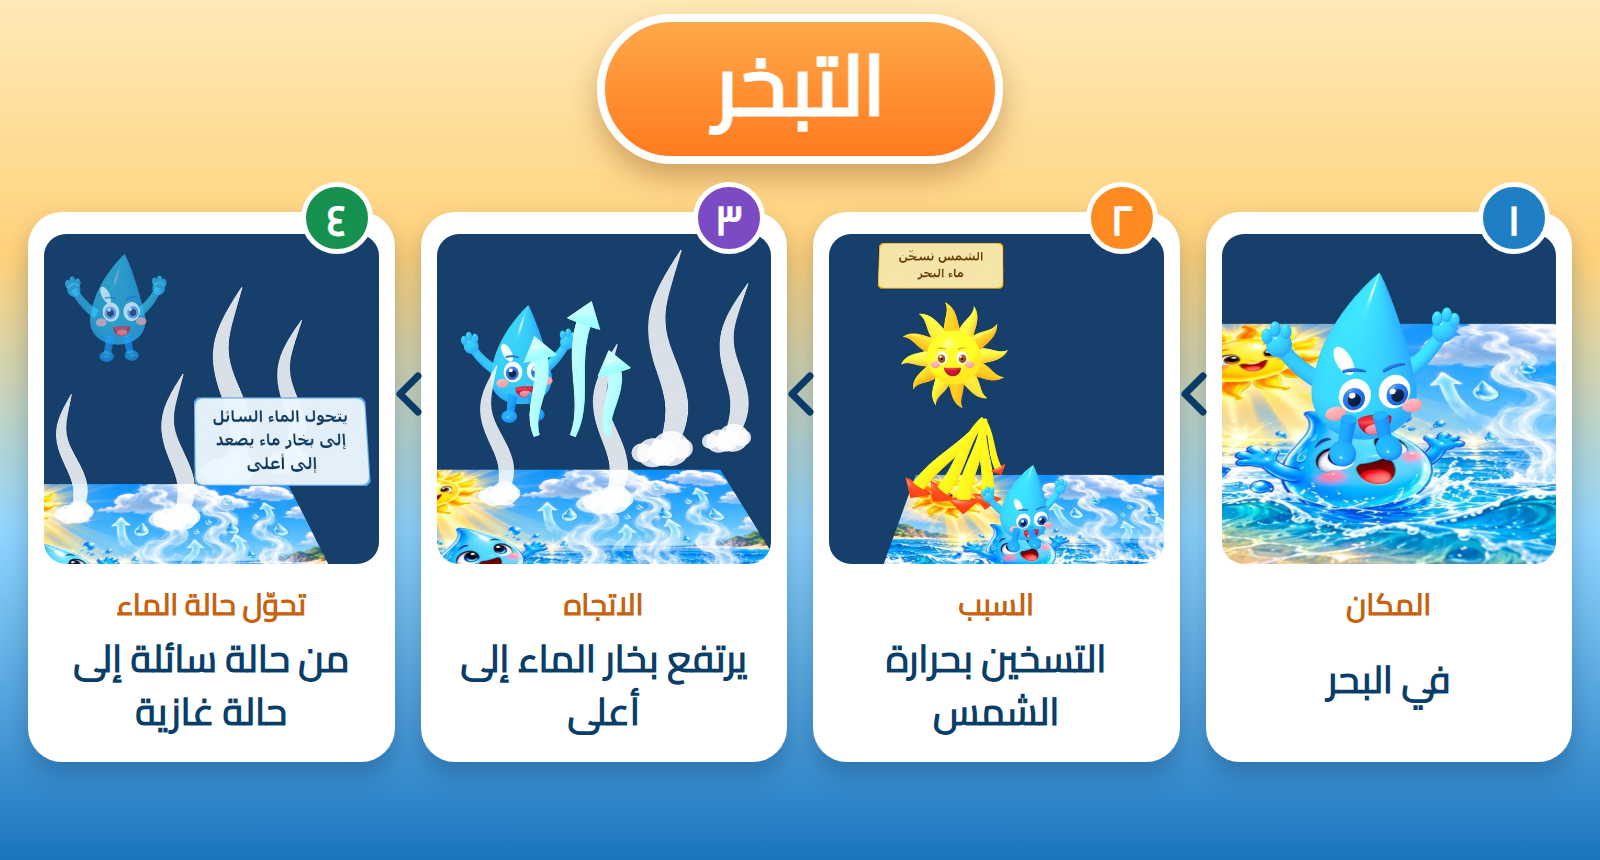
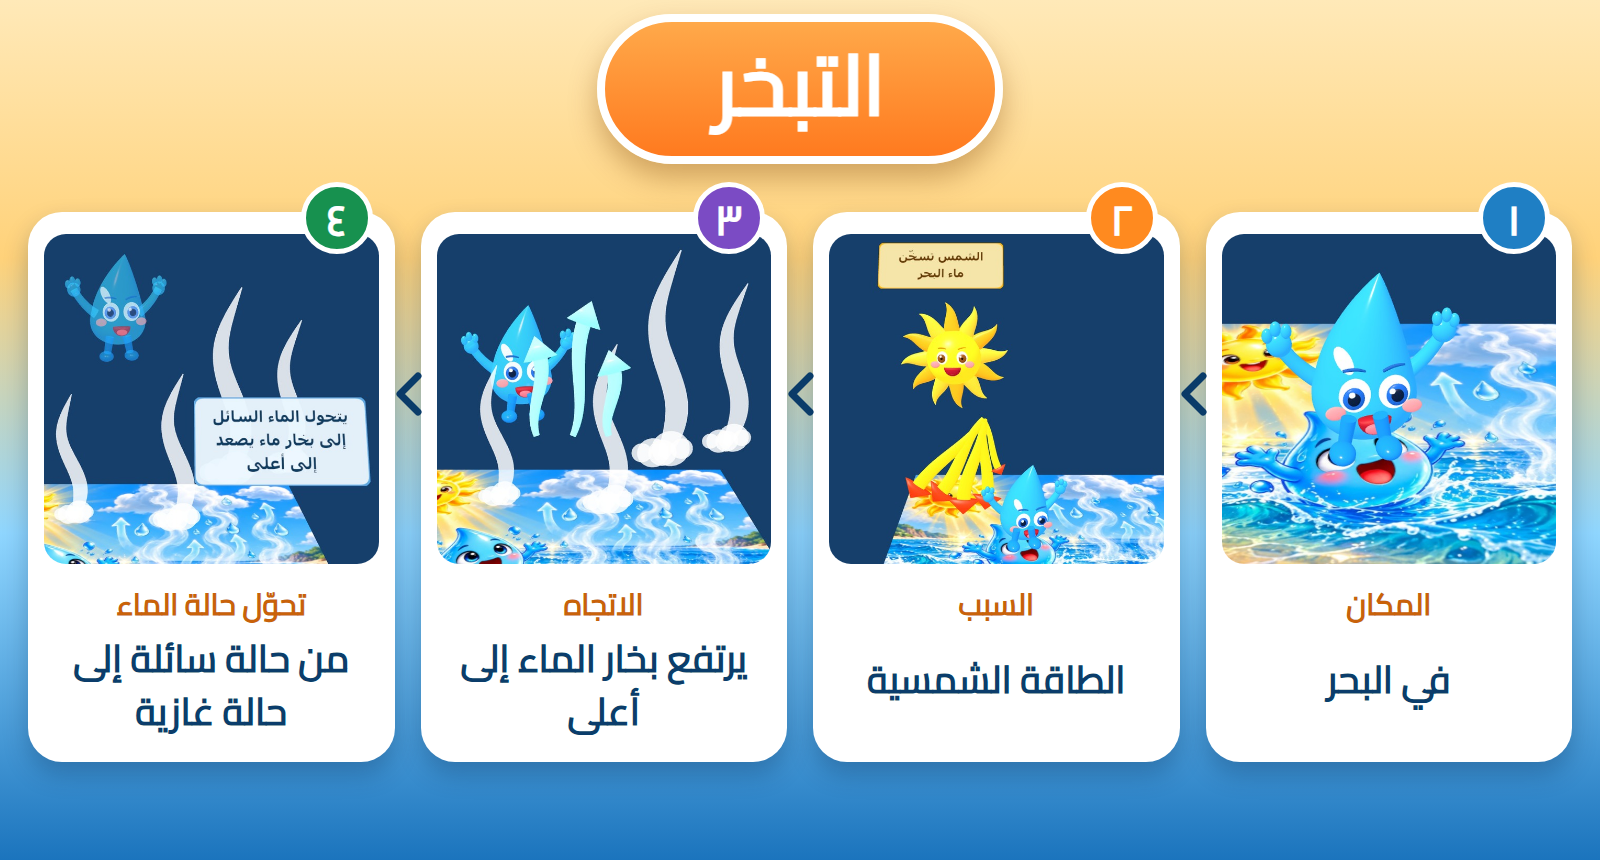
Use the textbook wording for the causes of evaporation and condensation
Evaporation: «الطاقة الشمسية». Condensation: «يبرد بخار الماء في السماء».
Replaces «التسخين بحرارة الشمس» and «التبريد ببرودة الجو», which repeated
the same idea.

Changed region(s): [[0.5312, 0.7558, 0.7188, 0.8465]]

diff --git a/evaporation-card/index.html b/evaporation-card/index.html
@@ -10,6 +10,6 @@
 </style>
 </head>
 <body>
-  <img src="evaporation.png?v=2" alt="بطاقة التبخر: في البحر، التسخين بحرارة الشمس، يرتفع بخار الماء إلى أعلى، من حالة سائلة إلى حالة غازية">
+  <img src="evaporation.png?v=3" alt="بطاقة التبخر: في البحر، الطاقة الشمسية، يرتفع بخار الماء إلى أعلى، من حالة سائلة إلى حالة غازية">
 </body>
 </html>
